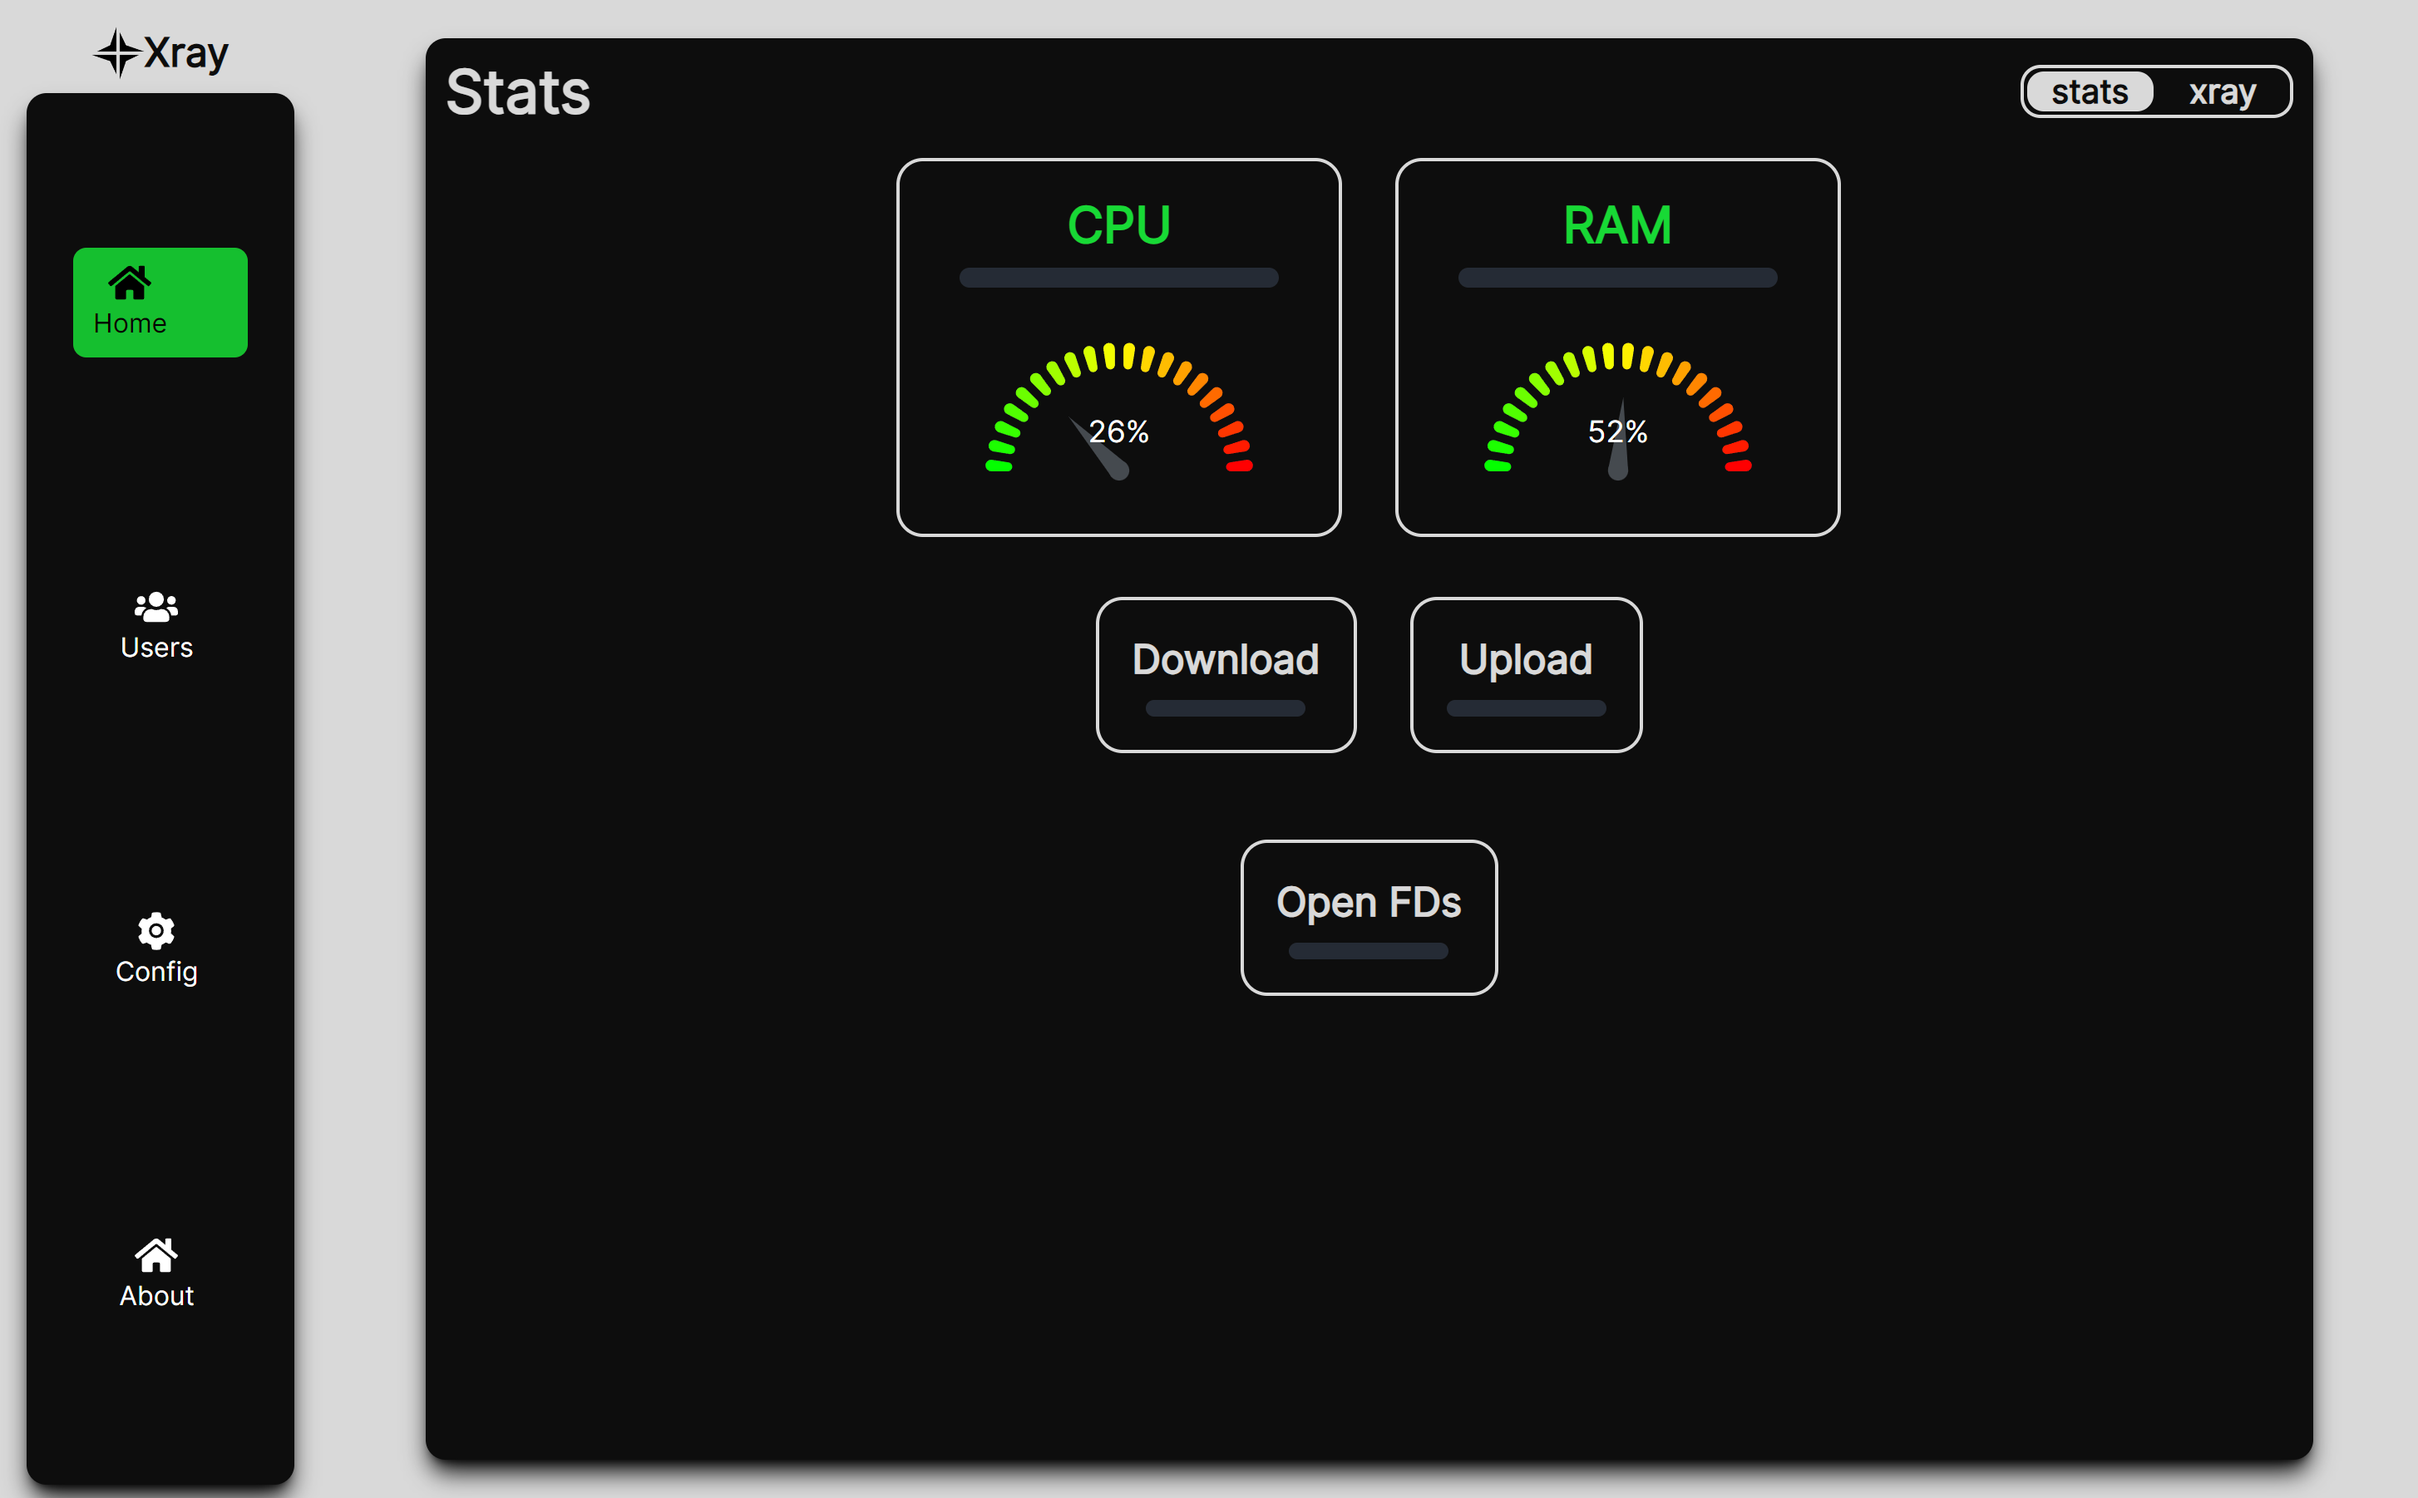
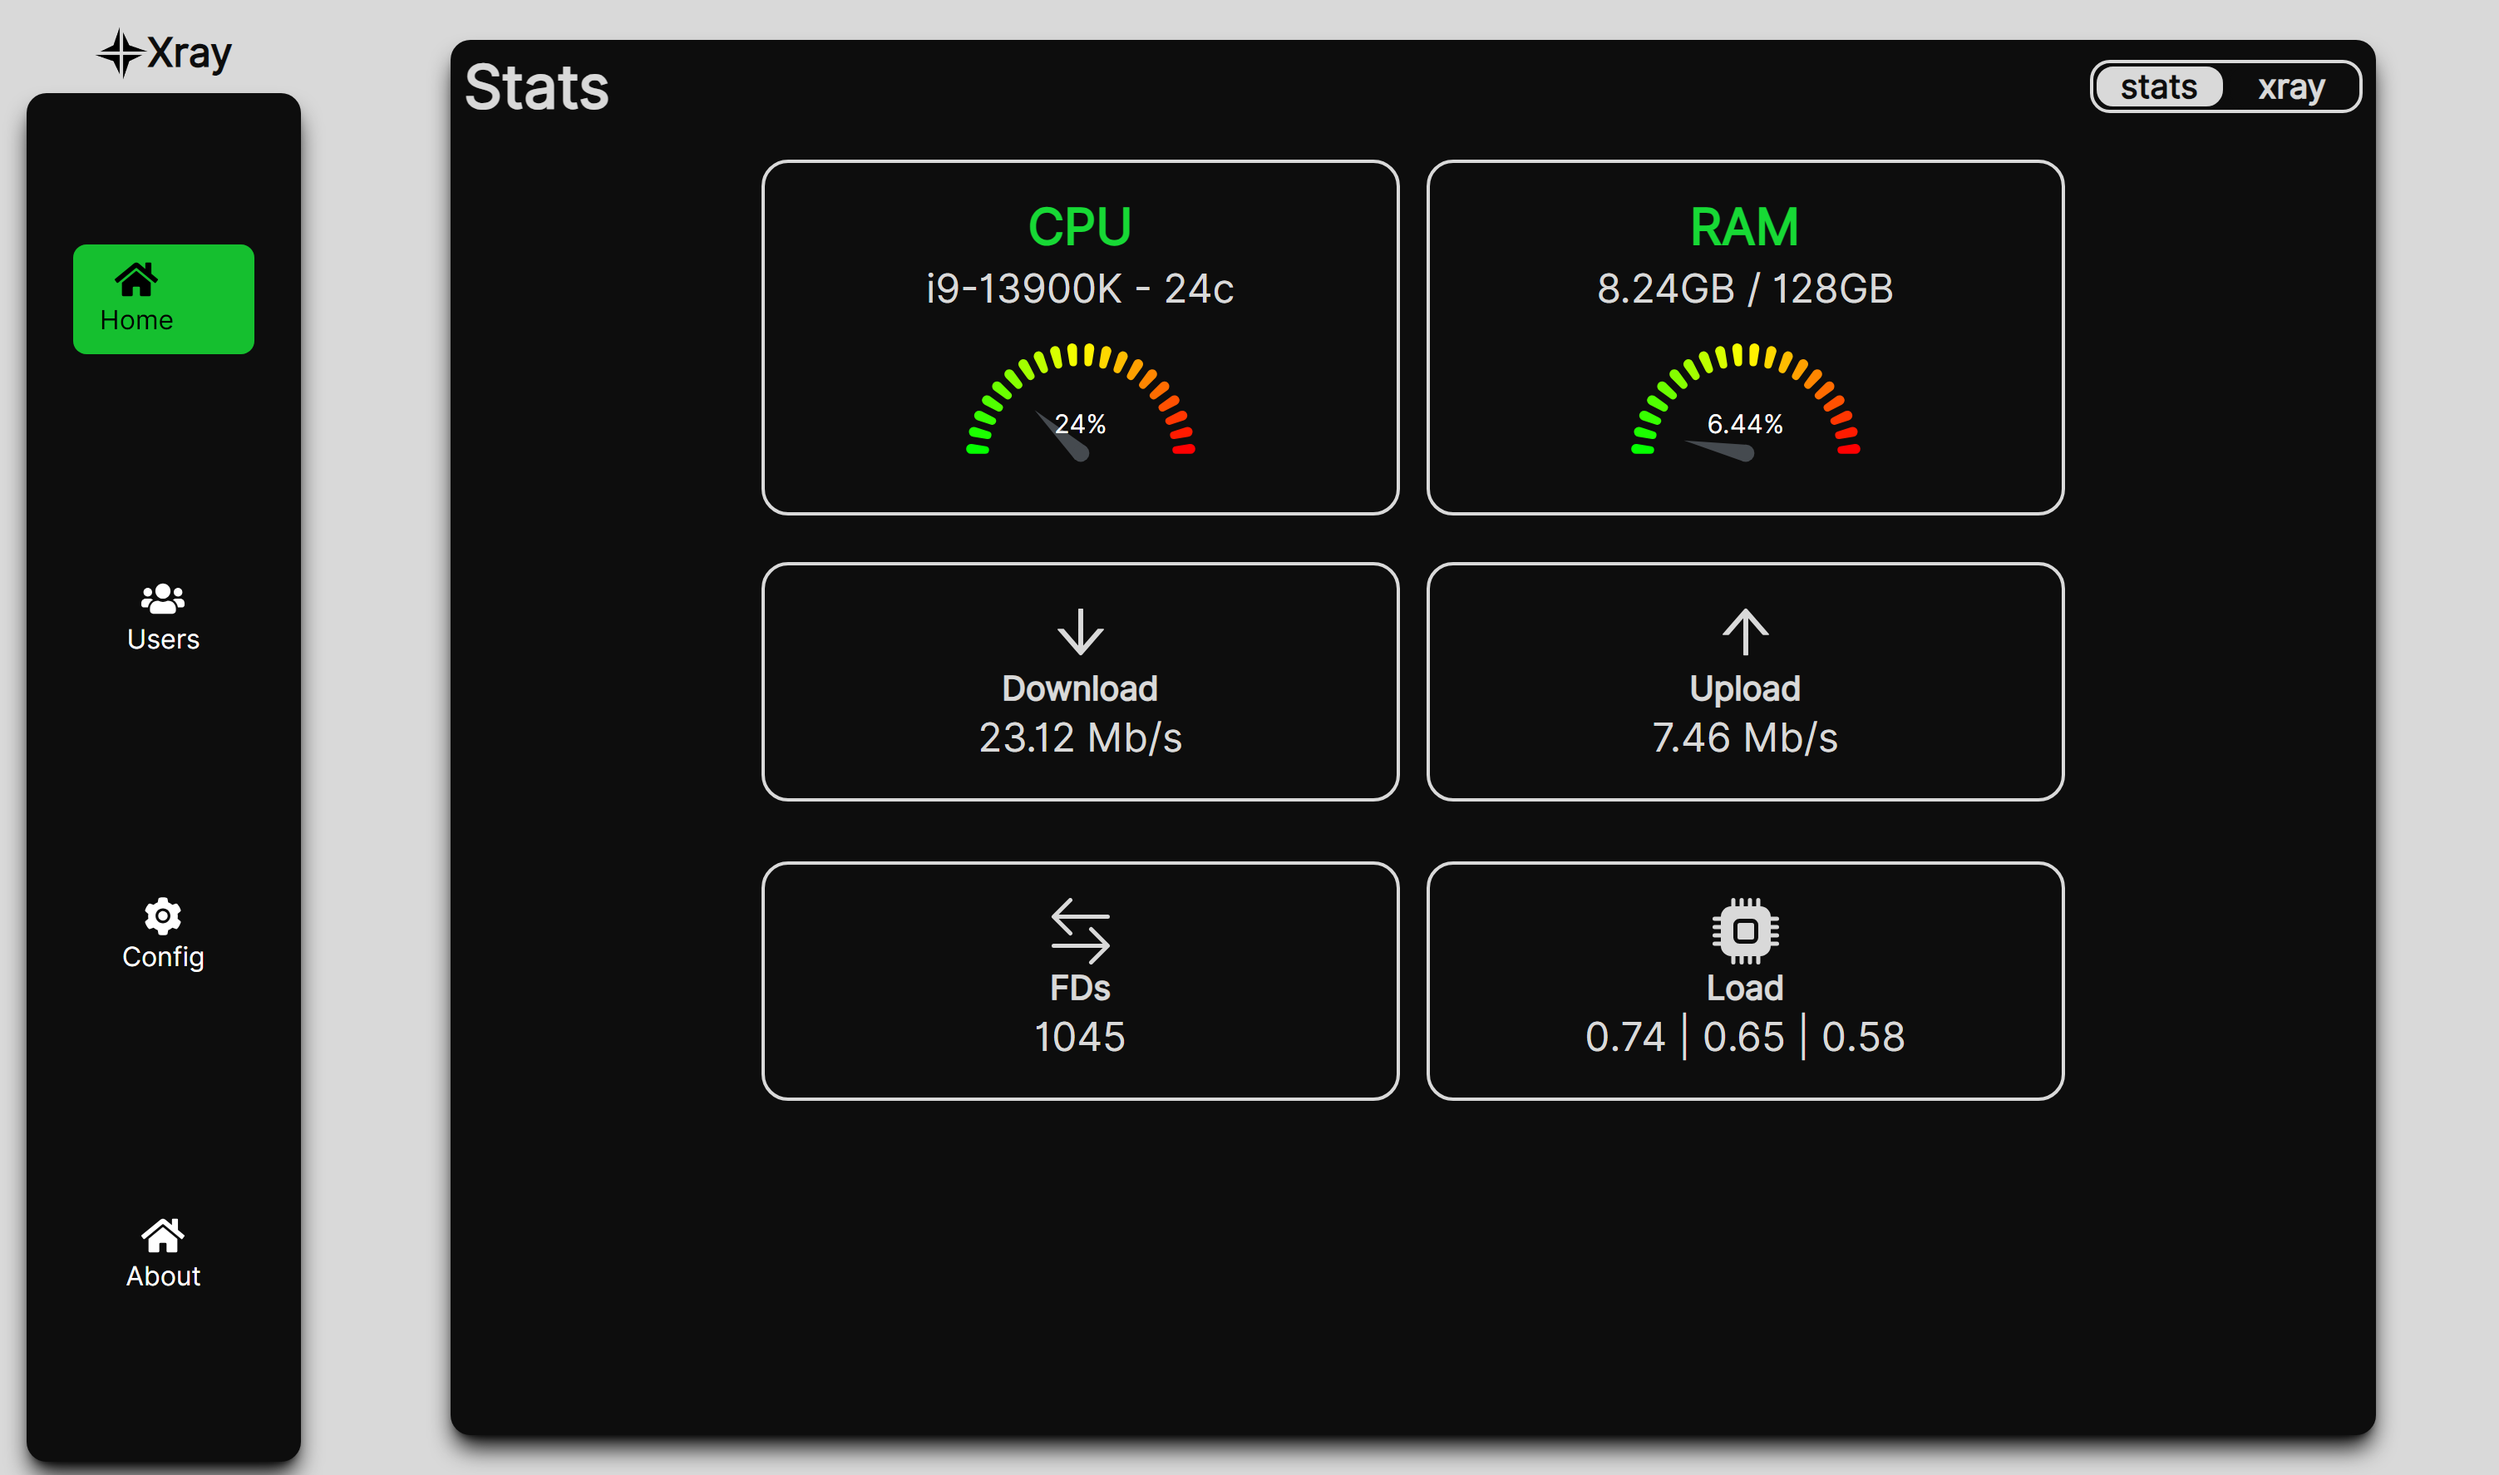
Improved responsiveness and Updated photos

diff --git a/src/views/Home/Home.jsx b/src/views/Home/Home.jsx
@@ -31,14 +31,14 @@ function Home() {
 
     return (
         <motion.div
-            className='dark flex flex-col flex-shrink justify-center items-center h-[90%] md:p-6 md:h-full md:w-full'
+            className='dark flex flex-col flex-shrink justify-center items-center h-[90%] p-1 md:p-6 md:h-full md:w-full'
             initial={{ opacity: 0 }}
             animate={{ opacity: 1 }}
             exit={{ opacity: 0 }}
             transition={{ duration: 0.5 }}
         >
 
-            <div className='flex flex-col text-[var(--creamy)] h-[100%] p-3 w-[92%] border-solid rounded-xl bg-[var(--creamy)] dark:bg-[var(--wash-black)] shadow-lg shadow-black'>
+            <div className='flex flex-col text-[var(--creamy)] h-[100%] p-2 w-[92%] border-solid rounded-xl bg-[var(--creamy)] dark:bg-[var(--wash-black)] shadow-lg shadow-black'>
 
                 <div className='flex flex-row items-center text-center'>
                     <h1 className='mr-auto text-3xl md:text-4xl font-bold text-[var(--wash-black)] dark:text-[var(--creamy)]'>{page.charAt(0).toUpperCase() + page.slice(1)}</h1>

diff --git a/src/views/Home/stats/Stats.jsx b/src/views/Home/stats/Stats.jsx
@@ -51,13 +51,13 @@ function Stats() {
 
             </div>
 
-            <div className='flex flex-row p-4 justify-center mt-3'>
+            <div className='flex flex-row p-4 justify-center mt-3 md:gap-4'>
                 <SimpleBox className="w-1/2" icon={AiOutlineArrowDown} size={24} name={"Download"} value={`${stats.stats.network.downlink} Mb/s`} />
                 
                 <SimpleBox className="w-1/2" icon={AiOutlineArrowUp} size={24} name={"Upload"} value={`${stats.stats.network.uplink}  Mb/s`} />
             </div>
 
-            <div className='flex flex-row p-4 justify-center mt-1'>
+            <div className='flex flex-row p-4 justify-center mt-1 md:gap-4'>
                 <SimpleBox className="w-1/2" valueClassName="text-sm" icon={BsArrowLeftRight} size={20} name={"FDs"} value={`${stats.stats.network.fds}`} />
 
                 <SimpleBox className="w-1/2" valueClassName="text-sm" icon={BsFillCpuFill} size={20} name={"Load"} value={`${stats.stats.cpu.load_avg}`} />

diff --git a/src/views/Navbar/Navbar.jsx b/src/views/Navbar/Navbar.jsx
@@ -16,7 +16,7 @@ function Navbar(props) {
   const location = useLocation().pathname;
   return (
     <nav className=''>
-      <div className="dark flex md:flex-col flex-wrap md:flex-nowrap items-center justify-center p-2 h-full">
+      <div className="dark flex md:flex-col flex-wrap md:flex-nowrap items-center justify-center p-4 h-full w-full">
 
         <a href="/" className="flex items-center">
           <img src={logo} className="h-8" alt="Xray Logo" />
